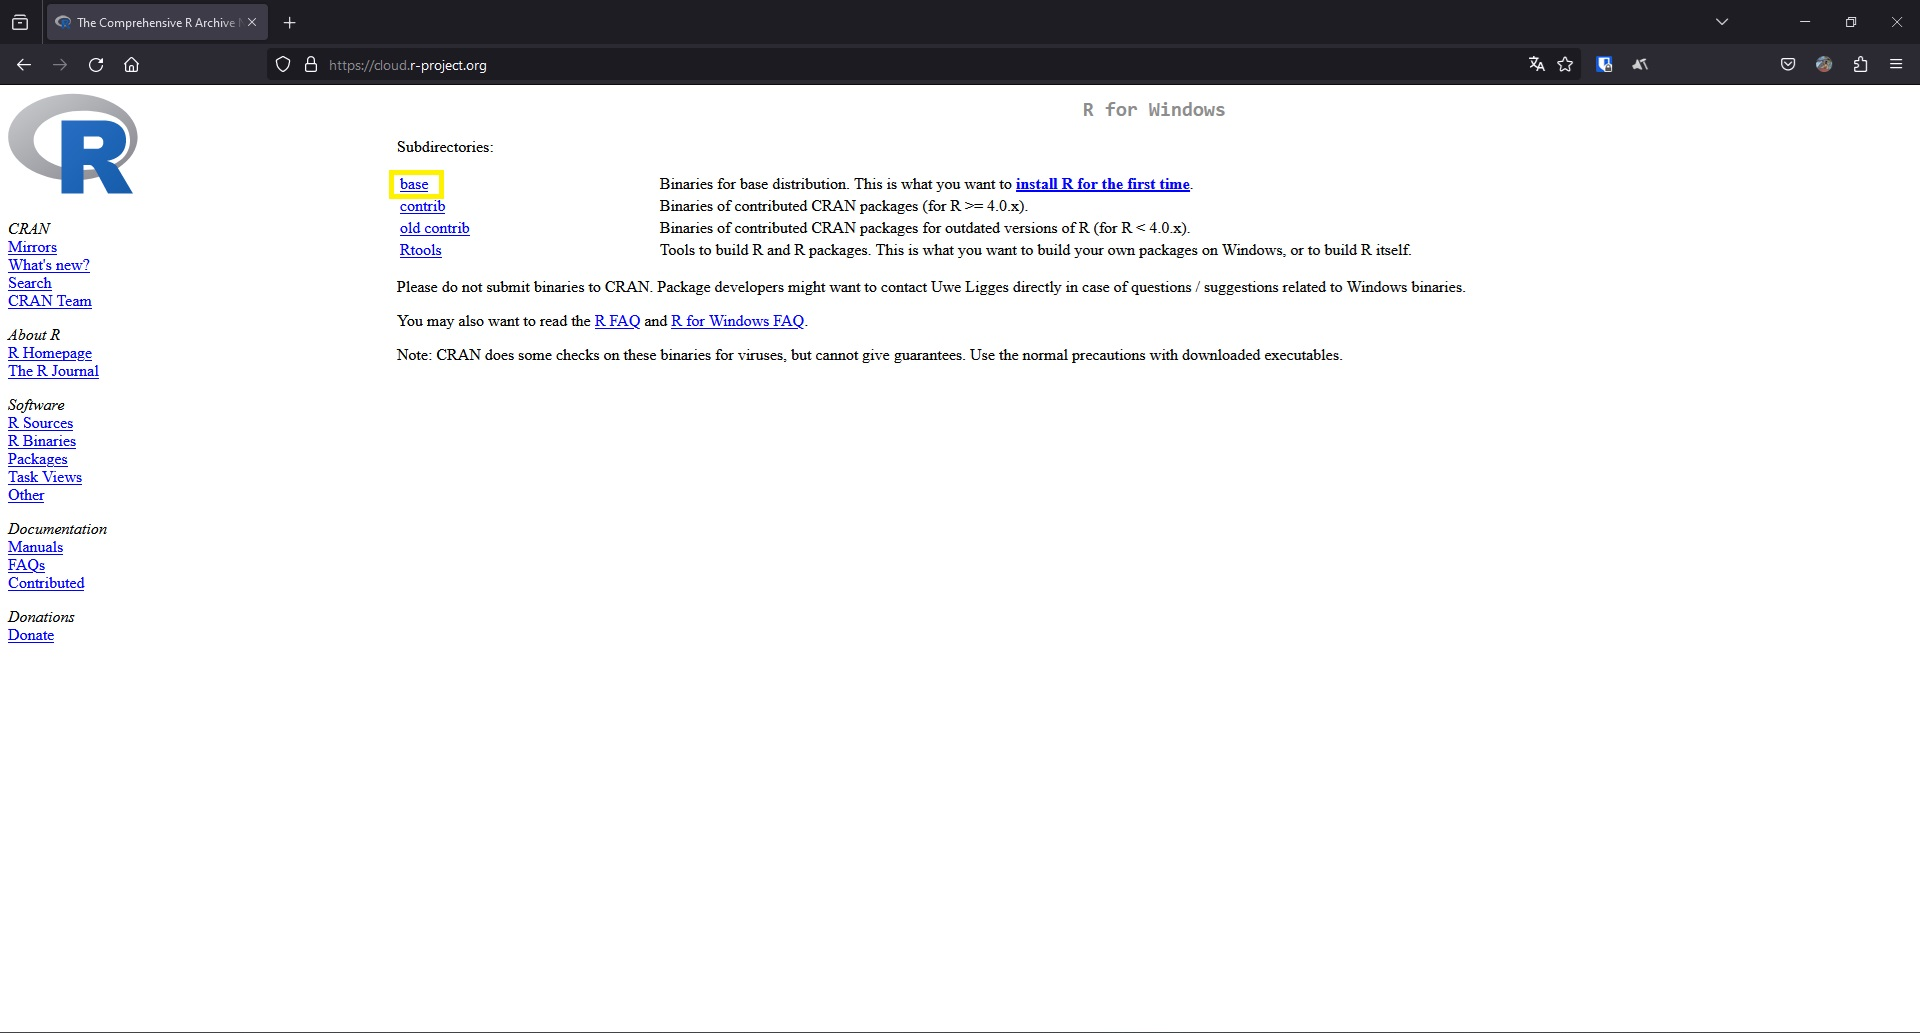
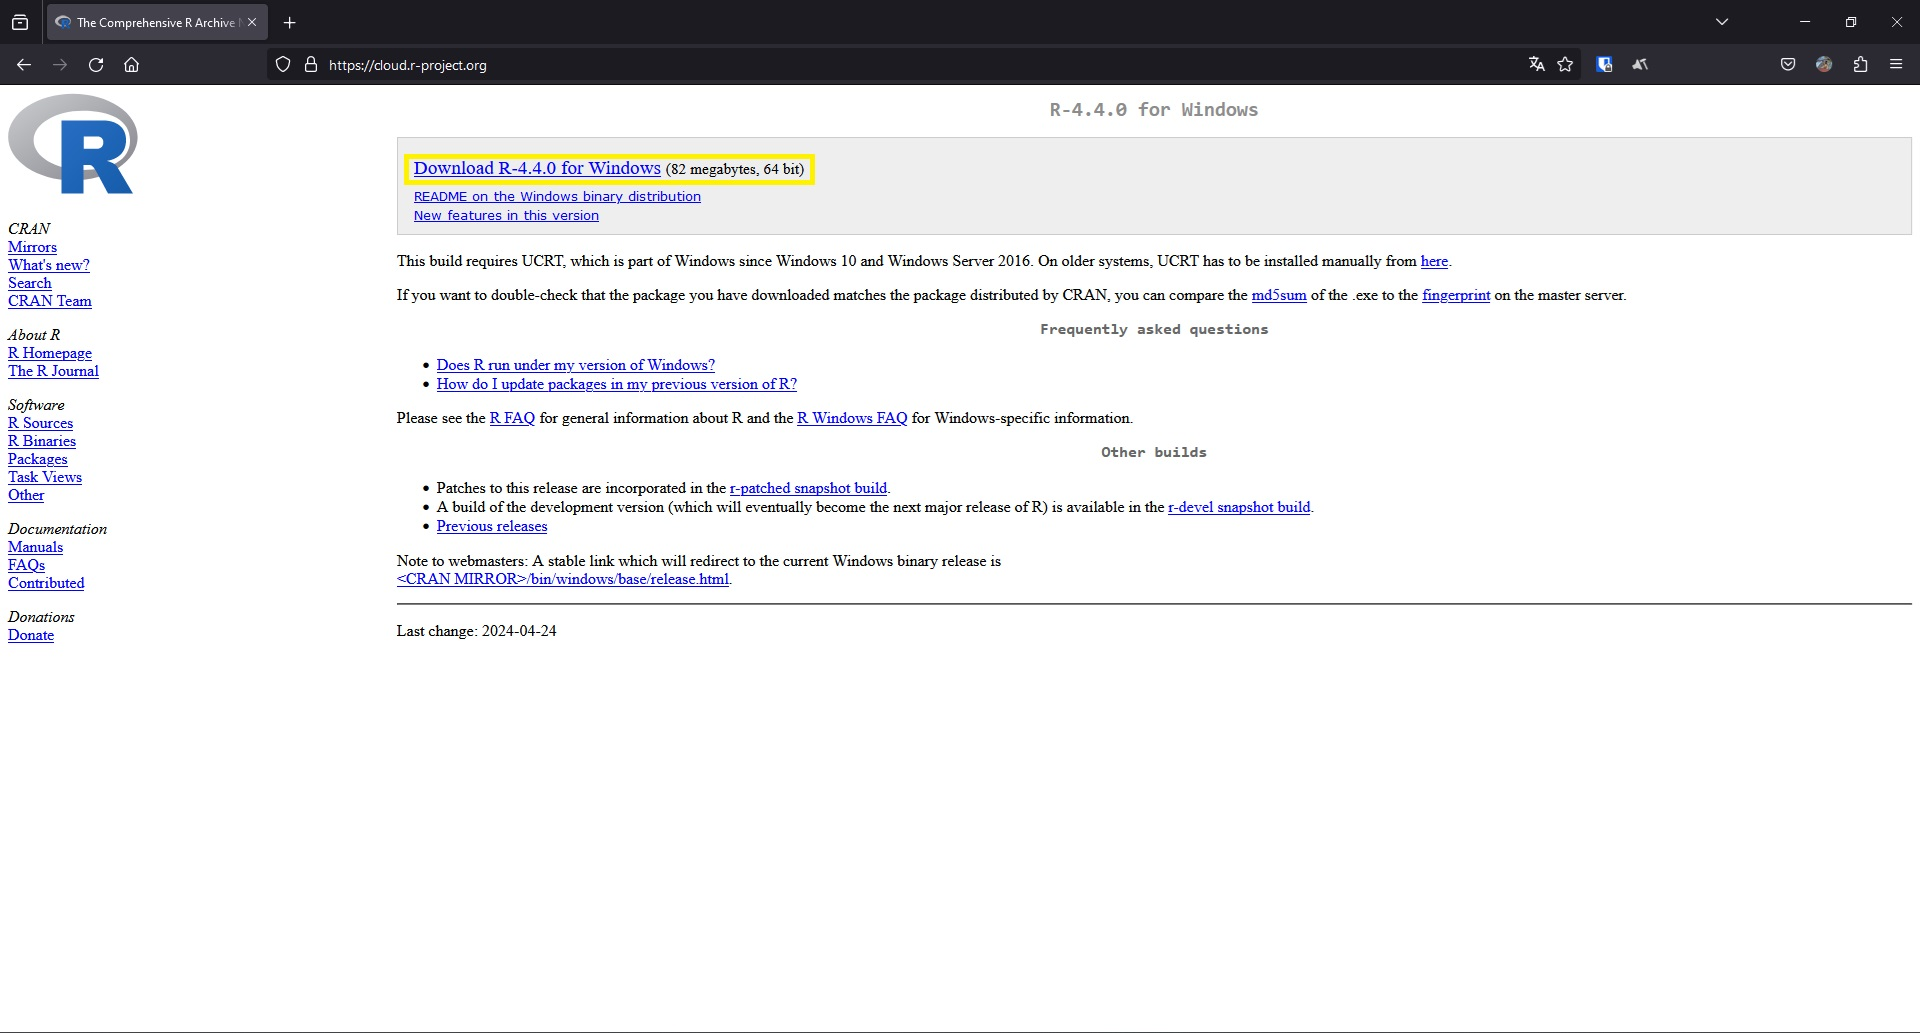
update code and tutorial

Changed region(s): [[0.1875, 0.1239, 0.8438, 0.6196], [0.5625, 0.0929, 0.6562, 0.1239]]

diff --git a/readme.md b/readme.md
@@ -7,12 +7,46 @@
     ![VSCode Download](/tutorial/vscode.jpg)
 
 
-2. Instalação do R:
+2. O download do R pode ser feito no link abaixo:
+    https://cloud.r-project.org/bin/windows/base/
+    ![R Download](/tutorial/r.jpg)
 
 
-´´´r
+```r
 install.packages("languageserver")
-´´´
+```
 
 Instalação da extensão do R para o Visual Studio Code
     ![VSCode R Extention Download](/tutorial/r_extension.jpg)
+
+## Obter dados de fonte
+
+1. Copernicus Global Land Service
+2. NASA Earthdata
+
+## Código
+### GGPLOT2
+
+## Outros
+Regiões Geográficas Imediatas Minas Gerais
+Fonte: https://pt.wikipedia.org/wiki/Lista_de_regi%C3%B5es_geogr%C3%A1ficas_intermedi%C3%A1rias_e_imediatas_de_Minas_Gerais
+
+Ipatinga                      310024
+Caratinga                     310025
+João Monlevade                310026
+
+Belo Horizonte                310001
+Sete Lagoas                   310002
+Santa Bárbara - Ouro Preto    310003
+Curvelo                       310004
+Itabira                       310005
+
+Governador Valadares          310020
+Guanhães                      310021
+
+Juiz de Fora                  310027
+Manhuaçu                      310028
+Viçosa                        310033
+
+Barbacena                     310037
+São João del-Rei              310039
